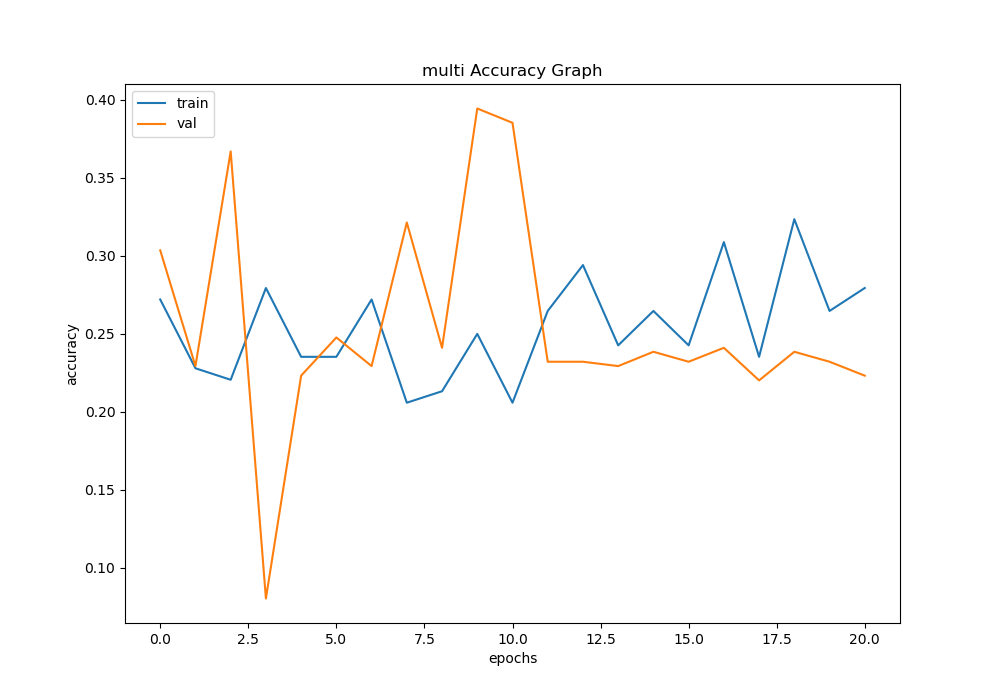
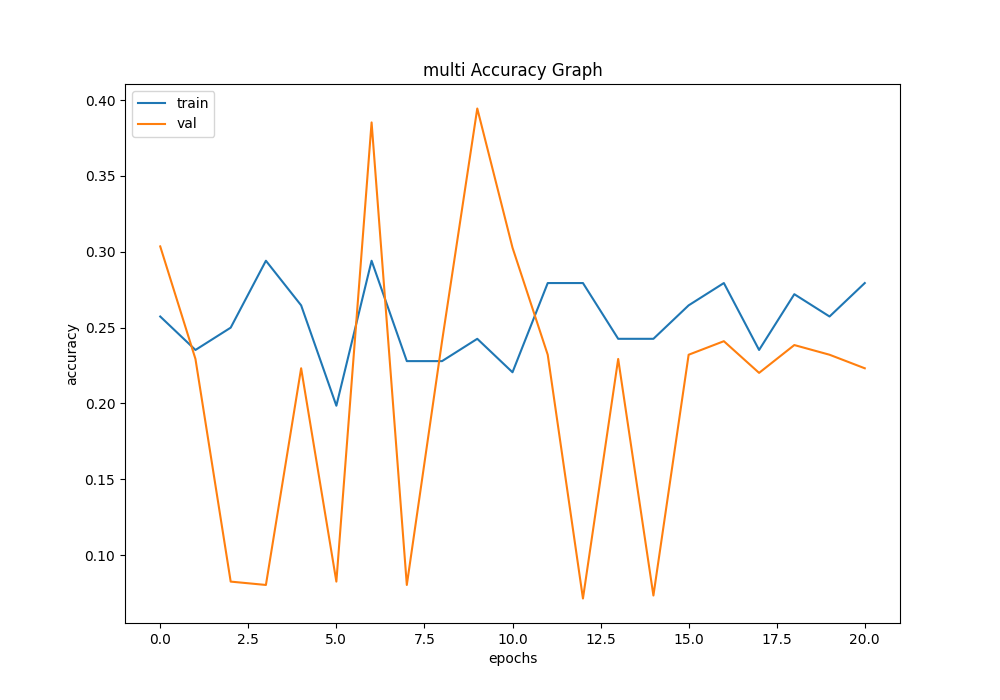
tried adding cuda

diff --git a/models/model.py b/models/model.py
@@ -1,6 +1,6 @@
 from tensorflow.keras.models import Sequential, Model
 from tensorflow.keras.layers import Flatten, Dense, Input, Dropout, MaxPooling2D, Conv2D, BatchNormalization, \
-    Concatenate
+    Concatenate, Add
 from tensorflow.keras.applications import ResNet50, InceptionV3, EfficientNetB4
 
 
@@ -35,8 +35,8 @@ def fully_connected(num_classes):
     return model
 
 
-def fully_connected2(concat, num_classes):
-    z = Flatten()(concat)
+def fully_connected2(merge, num_classes):
+    z = Flatten()(merge)
     z = Dense(1024, activation='relu')(z)
     z = Dropout(0.2)(z)
     z = Dense(1024, activation='relu')(z)
@@ -46,32 +46,15 @@ def fully_connected2(concat, num_classes):
     return z
 
 
-# def test_model():
-#     inputA = Input(shape=(32,))
-#     inputB = Input(shape=(128,))
-#     # the first branch operates on the first input
-#     x = Dense(8, activation="relu")(inputA)
-#     x = Dense(4, activation="relu")(x)
-#     x = Model(inputs=inputA, outputs=x)
+def build_model(base, forward):
+    model = Sequential()
+    model.add(base)
+    model.add(forward)
+    return model
 
-#     # the second branch opreates on the second input
-#     y = Dense(64, activation="relu")(inputB)
-#     y = Dense(32, activation="relu")(y)
-#     y = Dense(4, activation="relu")(y)
-#     y = Model(inputs=inputB, outputs=y)
 
-#     # combine the output of the two branches
-#     combined = Concatenate(axis=1)([x.input, y.input])
-
-#     # apply a FC layer and then a regression prediction on the
-#     # combined outputs
-#     z = Dense(2, activation="relu")(combined)
-#     z = Dense(1, activation="linear")(z)
-
-#     # our model will accept the inputs of the two branches and
-#     # then output a single value
-#     model = Model(inputs=[x.input, y.input], outputs=z)
-#     return model
+def ssd():
+    pass
 
 
 def multi_model(input_tensor1, input_tensor2, input_shape1, input_shape2, num_classes, weights):
@@ -87,16 +70,9 @@ def multi_model(input_tensor1, input_tensor2, input_shape1, input_shape2, num_cl
     y = base2(input_tensor2)
     y = Model(inputs=input_tensor2, outputs=y)
 
-    concat = Concatenate()([x.output, y.output])
-    fc = fully_connected2(concat, num_classes)
+    merge = Add()([x.output, y.output])
+    fc = fully_connected2(merge, num_classes)
 
     model = Model(inputs=[x.input, y.input], outputs=fc)
 
-    return model
-
-
-def build_model(base, forward):
-    model = Sequential()
-    model.add(base)
-    model.add(forward)
     return model

diff --git a/training/multimodal_training.py b/training/multimodal_training.py
@@ -12,16 +12,17 @@ import tensorflow as tf
 random.seed(89)
 seed(25)
 tf.random.set_seed(40)
+# K.tensorflow_backend._get_available_gpus()
 
 EPOCHS = 50
 INPUT_SHAPE = (150, 150, 3)
-BATCH_SIZE =4
+BATCH_SIZE = 4
 NUM_CLASSES = 4
 VAL_SPLIT = 0.1
 
 # Define paths
-IMG_BASE_PATH = "C:/Users/Administrator/Desktop/Sam/Multimodal_Fusion/training_data/images/"
-AUD_BASE_PATH = "C:/Users/Administrator/Desktop/Sam/Multimodal_Fusion/training_data/new_spectograms/"
+IMG_BASE_PATH = "D:/Datasets/birdsounds/training_data/images/"
+AUD_BASE_PATH = "D:/Datasets/birdsounds/training_data/audio/spectrograms/"
 MULTI_TRAIN_DATA_PATH = "../data/training/multi/train.csv"
 MULTI_TEST_DATA_PATH = "../data/training/multi/test.csv"
 
